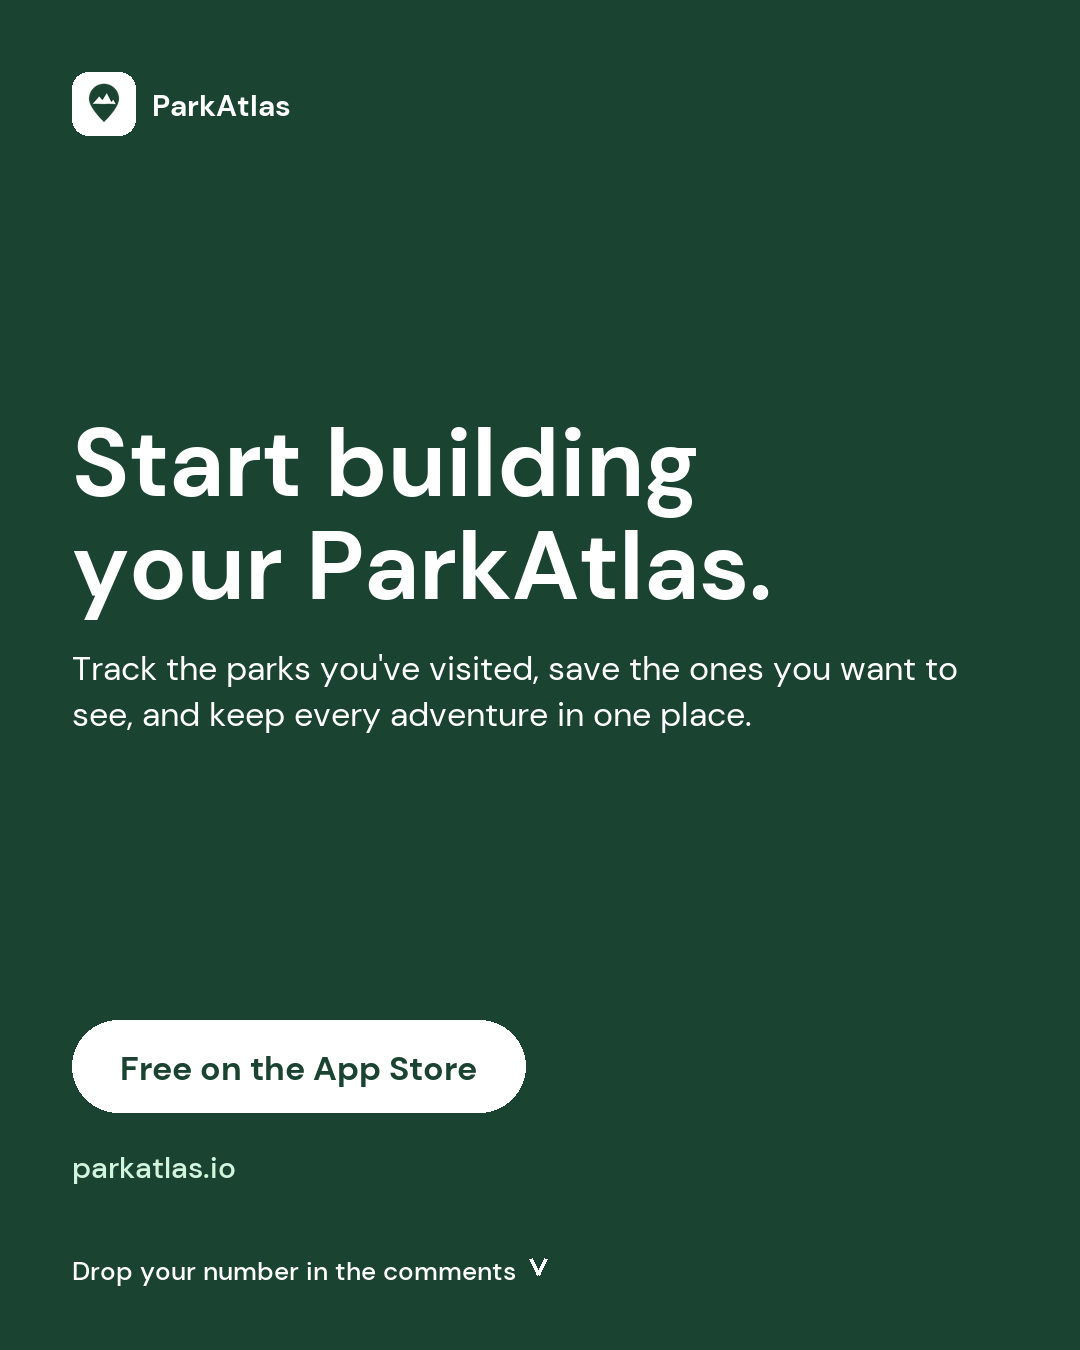
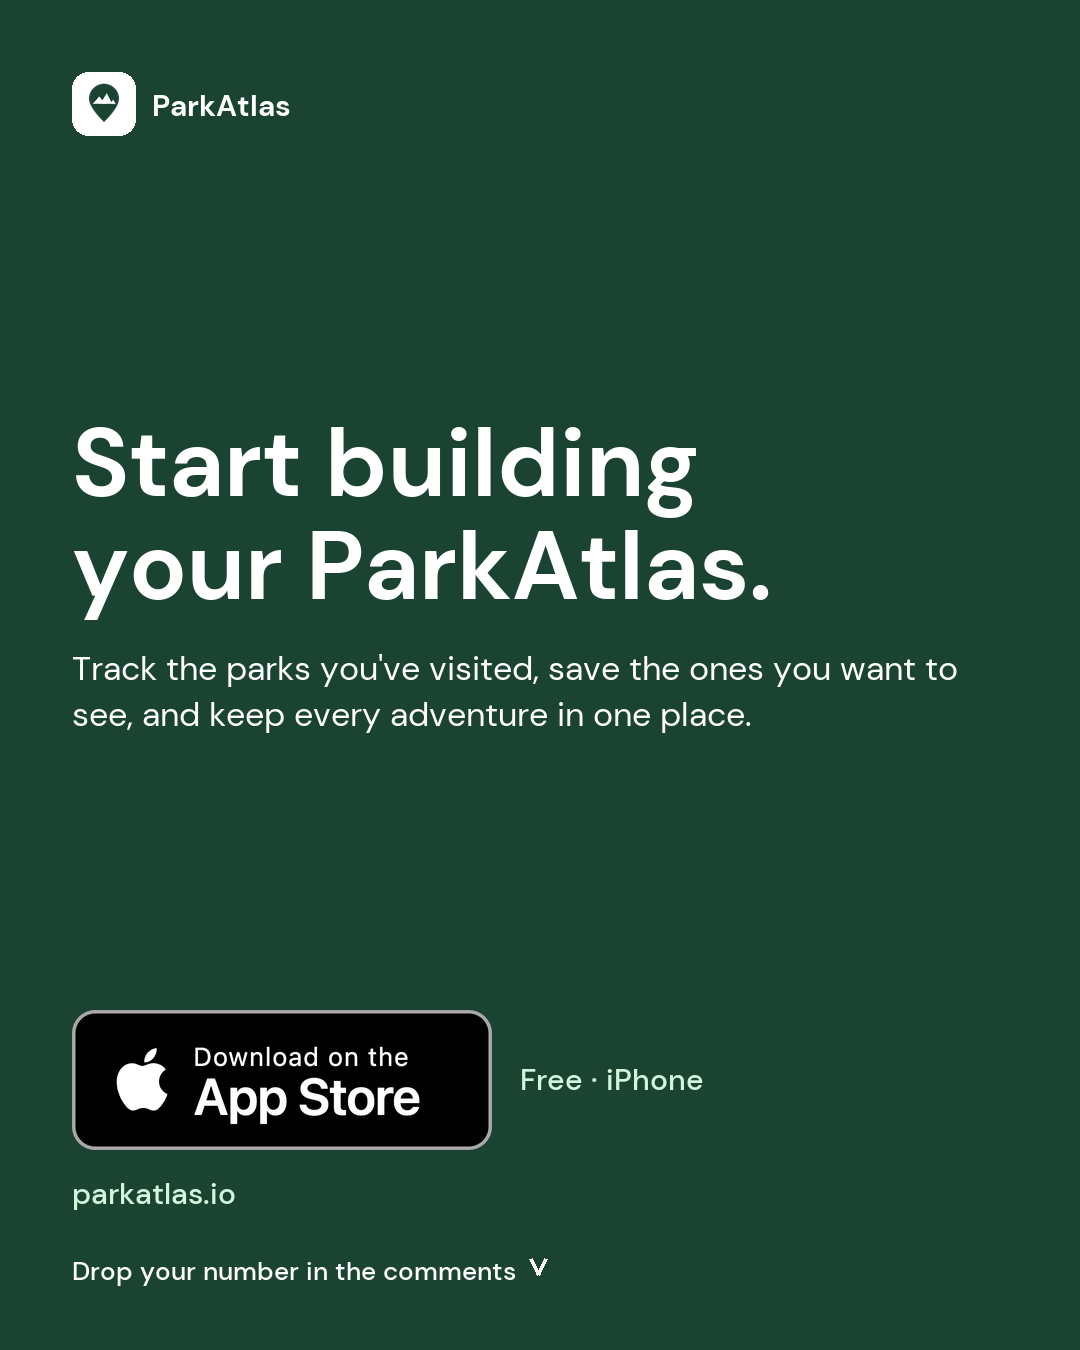
Carousel slide 5: official App Store badge instead of pseudo-button

Changed region(s): [[0.0611, 0.7467, 0.6417, 0.9022]]

diff --git a/ParkAtlas/content/build-number-post.py b/ParkAtlas/content/build-number-post.py
@@ -166,14 +166,14 @@ def slide_cta() -> Image.Image:
     for ln in wrap(d, "Track the parks you've visited, save the ones you want to see, and keep every adventure in one place.", font("Regular", 34), W - 144):
         d.text((72, y), ln, font=font("Regular", 34), fill=(255, 255, 255, 215))
         y += 46
-    # Pill CTA
-    py = H - 330
-    label = "Free on the App Store"
-    lf = font("Bold", 34)
-    pw = int(d.textlength(label, font=lf)) + 96
-    d.rounded_rectangle((72, py, 72 + pw, py + 92), 46, fill=(255, 255, 255))
-    d.text((72 + 48, py + 26), label, font=lf, fill=GREEN)
-    d.text((72, py + 128), "parkatlas.io", font=font("Medium", 30), fill=MINT)
+    # Apple's official badge — carousel images aren't tappable, so avoid anything that looks like a custom button.
+    badge = Image.open(FONTS / "app-store-badge.png").convert("RGBA")
+    bw = 420
+    badge = badge.resize((bw, int(badge.height * bw / badge.width)), Image.LANCZOS)
+    py = H - 340
+    img.alpha_composite(badge, (72, py))
+    d.text((72 + bw + 28, py + badge.height // 2 - 20), "Free · iPhone", font=font("Medium", 30), fill=MINT)
+    d.text((72, py + badge.height + 24), "parkatlas.io", font=font("Medium", 30), fill=MINT)
     hint = "Drop your number in the comments"
     d.text((72, H - 96), hint, font=font("Medium", 26), fill=(255, 255, 255, 200))
     chevron(d, 72 + int(d.textlength(hint + "  ", font=font("Medium", 26))), H - 92, 16, (255, 255, 255, 200), direction="down")
